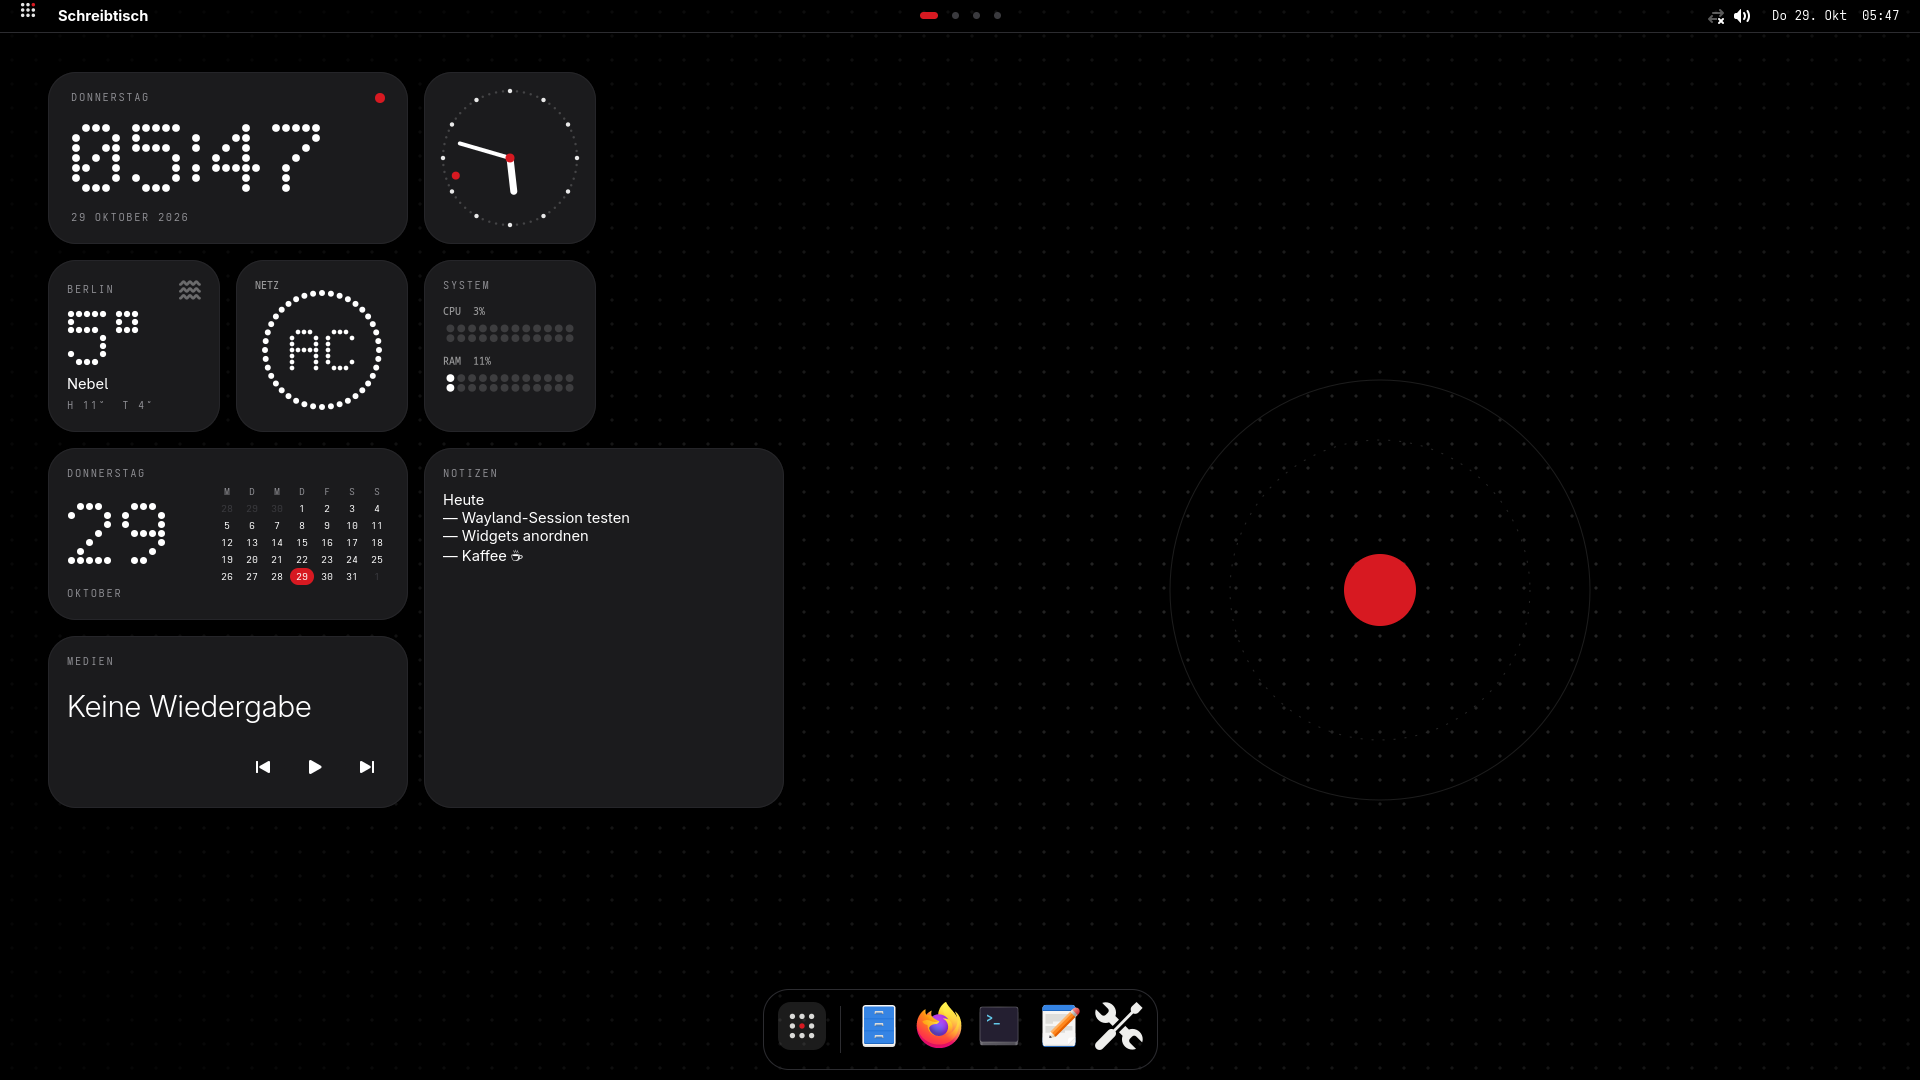
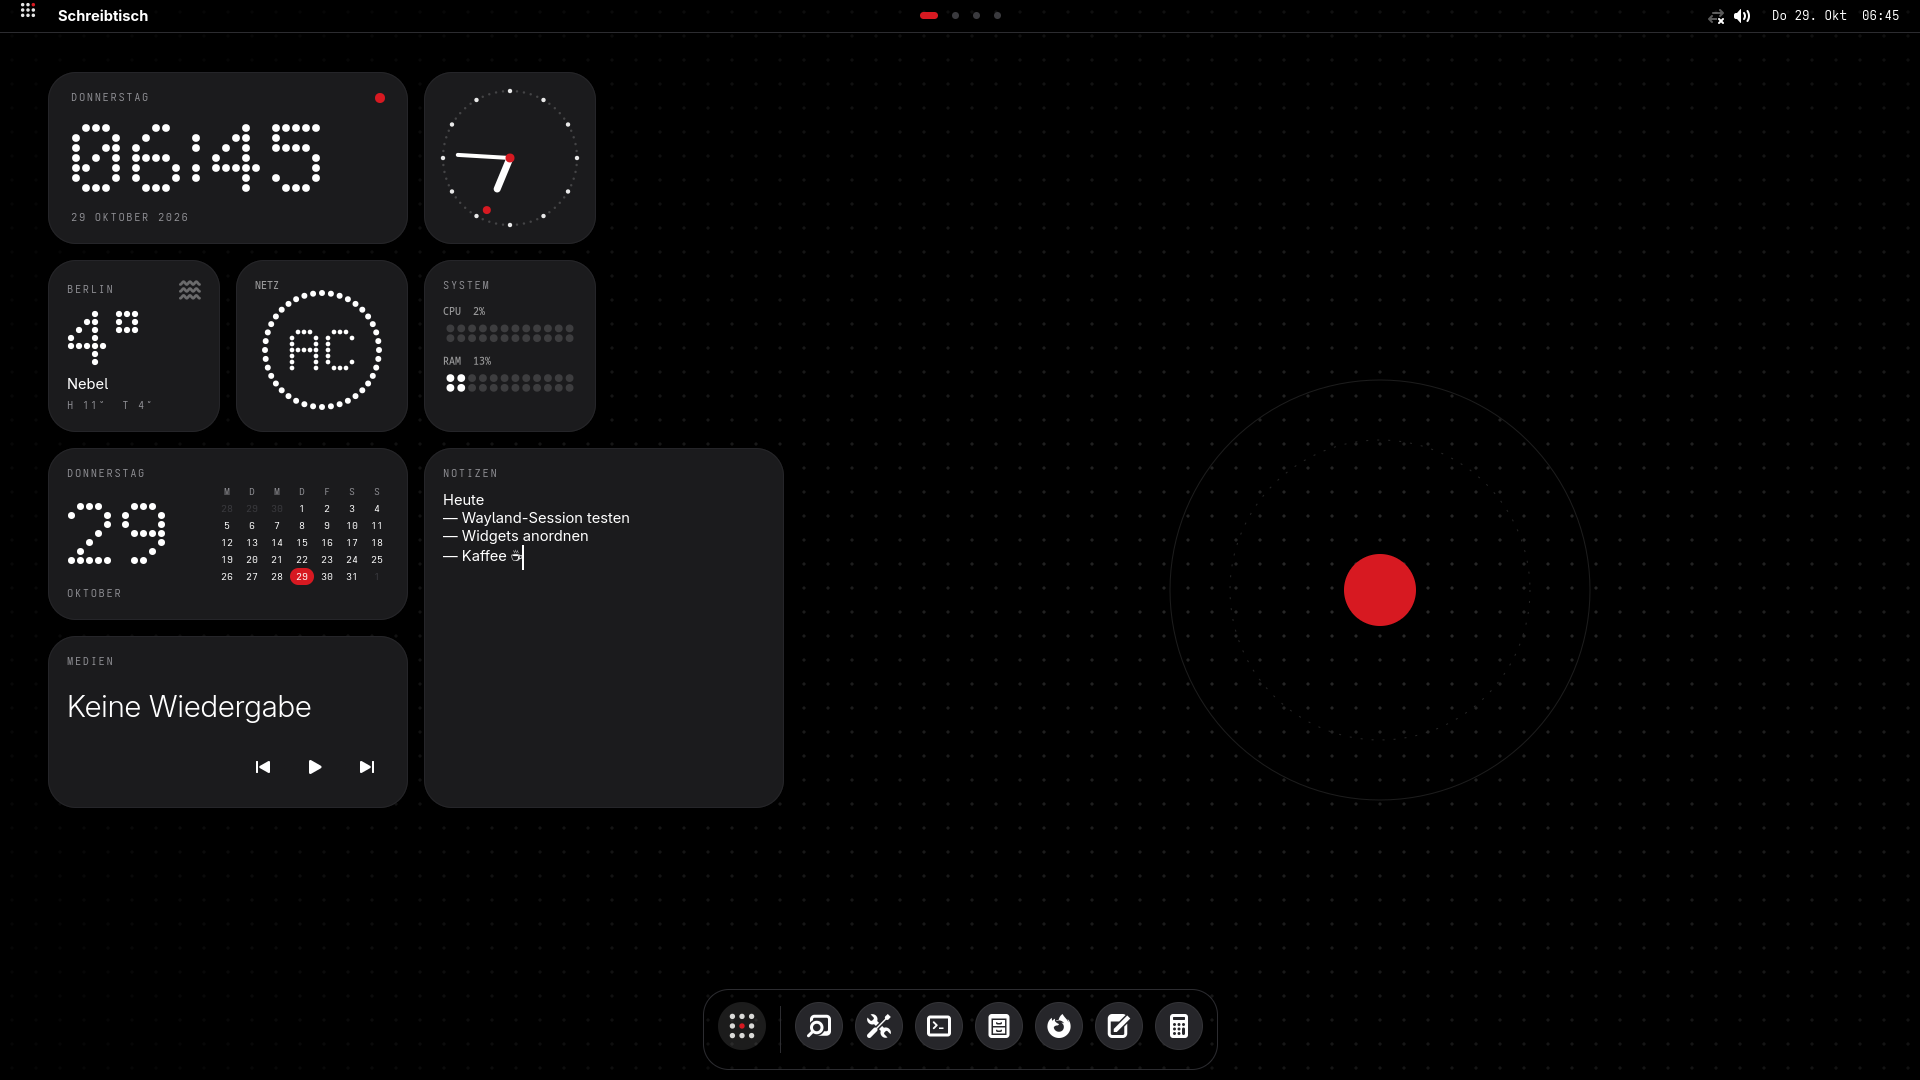
Nothing-Symbole für alle Apps, App-Menü-Knopf wahlweise rechts
Jede App bekommt in Dock und App-Suche automatisch ein einfarbiges Symbol
auf rundem Grund. Das Motiv kommt aus der symbolischen Variante, wird aus
einer einfarbigen Grundfläche herausgelöst oder als Silhouette mit
Schattierung erzeugt. Einstellung „App-Symbole“ schaltet auf die Originale
zurück, „App-Menü-Knopf“ setzt den Knopf der App-Suche nach rechts.

Neue Abhängigkeit: python-numpy.

diff --git a/shell/nothing_de/icons.py b/shell/nothing_de/icons.py
@@ -1,0 +1,185 @@
+"""Nothing-style app icons: a monochrome glyph on a round plate.
+
+Apps rarely ship such icons, so the glyph is derived from the normal icon:
+a symbolic variant is used as is; for a coloured icon on a plate (a squircle
+or circle in one colour, e.g. Discord or Signal) the motif is cut out of the
+plate by its colour difference; any other icon becomes a white silhouette
+whose shading keeps the inner detail. The glyph is painted in the CSS colour
+of the widget, so it follows light/dark mode and needs no recolouring.
+"""
+import cairo
+import numpy as np
+
+from gi.repository import Gdk, GdkPixbuf, Gio, GLib, Gtk
+
+from .apps import app_icon
+
+RENDER = 128            # px the source icon is rasterised at
+_cache = {}             # source path -> (A8 surface, plate?) or None
+
+
+def _source(gicon, symbolic=True):
+    """Path of the best file for gicon, preferring its -symbolic variant."""
+    if isinstance(gicon, Gio.FileIcon):
+        return gicon.get_file().get_path(), False
+    if not isinstance(gicon, Gio.ThemedIcon):
+        return None, False
+    theme = Gtk.IconTheme.get_for_display(Gdk.Display.get_default())
+    names = [n for n in gicon.get_names() if not n.endswith("-symbolic")]
+    candidates = [(n + "-symbolic", True) for n in names] if symbolic else []
+    candidates += [(n, False) for n in names]
+    for name, is_symbolic in candidates:
+        if not theme.has_icon(name):
+            continue
+        found = theme.lookup_icon(name, None, RENDER, 1, Gtk.TextDirection.NONE, 0)
+        f = found.get_file() if found else None
+        if f and f.get_path():
+            return f.get_path(), is_symbolic
+    return None, False
+
+
+def _load(path, symbolic):
+    if not (symbolic and path.endswith(".svg")):
+        return GdkPixbuf.Pixbuf.new_from_file_at_scale(path, RENDER, RENDER, True)
+    # Firefox-style symbolic SVGs paint with context-fill, unknown to librsvg
+    with open(path, encoding="utf-8", errors="replace") as f:
+        svg = f.read()
+    for word, value in (("context-fill-opacity", "1"), ("context-stroke-opacity", "1"),
+                        ("context-fill", "#000"), ("context-stroke", "#000")):
+        svg = svg.replace(word, value)
+    loader = GdkPixbuf.PixbufLoader.new_with_type("svg")
+    loader.set_size(RENDER, RENDER)
+    loader.write(svg.encode())
+    loader.close()
+    return loader.get_pixbuf()
+
+
+def _pixels(path, symbolic):
+    pb = _load(path, symbolic)
+    if not pb.get_has_alpha():
+        pb = pb.add_alpha(False, 0, 0, 0)
+    w, h, stride = pb.get_width(), pb.get_height(), pb.get_rowstride()
+    raw = np.frombuffer(pb.get_pixels(), np.uint8)
+    raw = np.pad(raw, (0, h * stride - raw.size))    # last row may be short
+    return raw.reshape(h, stride)[:, :w * 4].reshape(h, w, 4).astype(np.float32) / 255
+
+
+def _erode(mask, steps):
+    for _ in range(steps):
+        m = mask.copy()
+        m[1:] &= mask[:-1]
+        m[:-1] &= mask[1:]
+        m[:, 1:] &= mask[:, :-1]
+        m[:, :-1] &= mask[:, 1:]
+        mask = m
+    return mask
+
+
+def _plate_colours(rgb, solid):
+    """Candidates for the plate colour: the outline ring, then the most common colour."""
+    ring = solid & ~_erode(solid, RENDER // 24)
+    if ring.any():
+        yield np.median(rgb[ring], axis=0), ring
+    q = np.round(rgb[solid] * 7).astype(np.int32) @ np.array([64, 8, 1])
+    counts = np.bincount(q, minlength=512)
+    if counts.max() >= 0.25 * solid.sum():
+        yield rgb[solid][q == counts.argmax()].mean(axis=0), None
+
+
+def _plate_glyph(rgb, a):
+    """Motif of an icon drawn on a one-coloured plate, or None.
+
+    The plate colour is preferably taken from a ring along the icon's outline,
+    where the motif rarely reaches; a soft gradient stays below the threshold.
+    """
+    solid = a > 0.5
+    if solid.mean() < 0.35:
+        return None
+    for plate, ring in _plate_colours(rgb, solid):
+        dist = np.linalg.norm(rgb - plate, axis=2) / np.sqrt(3)
+        if ring is not None and np.median(dist[ring]) > 0.08:
+            continue
+        if (dist[solid] < 0.2).mean() < 0.3:
+            continue
+        glyph = np.clip((dist - 0.10) / 0.16, 0, 1) * np.clip((a - 0.75) / 0.2, 0, 1)
+        if 0.015 < glyph.sum() / solid.sum() < 0.6:
+            return glyph
+    return None
+
+
+def _glyph(path, symbolic):
+    px = _pixels(path, symbolic)
+    rgb, a = px[..., :3], px[..., 3]
+    glyph = None if symbolic else _plate_glyph(rgb, a)
+    plate = glyph is not None
+    if glyph is None and symbolic:
+        glyph = a
+    if glyph is None:
+        lum = rgb @ np.array([0.2126, 0.7152, 0.0722], np.float32)
+        solid = a > 0.5
+        lo, hi = np.percentile(lum[solid], (5, 95)) if solid.any() else (0, 1)
+        shade = np.clip((lum - lo) / max(hi - lo, 0.05), 0, 1)
+        glyph = a * (0.38 + 0.62 * shade)
+    ys, xs = np.nonzero(glyph > 0.08)
+    if not len(xs):
+        return None
+    glyph = glyph[ys.min():ys.max() + 1, xs.min():xs.max() + 1]
+    h, w = glyph.shape
+    stride = cairo.ImageSurface.format_stride_for_width(cairo.FORMAT_A8, w)
+    buf = np.zeros((h, stride), np.uint8)
+    buf[:, :w] = np.round(glyph * 255)
+    data = bytearray(buf.tobytes())
+    surf = cairo.ImageSurface.create_for_data(data, cairo.FORMAT_A8, w, h, stride)
+    return surf, plate or symbolic
+
+
+def glyph_for(gicon):
+    for prefer_symbolic in (True, False):
+        path, symbolic = _source(gicon, prefer_symbolic)
+        if path is None:
+            return None
+        key = (path, symbolic)
+        if key not in _cache:
+            try:
+                _cache[key] = _glyph(path, symbolic)
+            except (GLib.Error, ValueError, OSError) as e:
+                print("nothing-de: icon", path, e)
+                _cache[key] = None
+        if _cache[key] is not None or not symbolic:
+            return _cache[key]
+    return None
+
+
+class NothingIcon(Gtk.DrawingArea):
+    """Round plate with the app's glyph, drawn in the widget's CSS colour."""
+
+    def __init__(self, app, size):
+        super().__init__(content_width=size, content_height=size,
+                         halign=Gtk.Align.CENTER, valign=Gtk.Align.CENTER)
+        self.add_css_class("n-icon")
+        self.gicon = app_icon(app)
+        self.set_draw_func(self._draw)
+
+    def _draw(self, _area, cr, w, h):
+        g = glyph_for(self.gicon)
+        if g is None:
+            g = glyph_for(Gio.ThemedIcon.new("application-x-executable"))
+        if g is None:
+            return
+        surf, tight = g
+        box = min(w, h) * (0.5 if tight else 0.58)
+        s = box / max(surf.get_width(), surf.get_height())
+        fg = self.get_color()
+        cr.set_source_rgba(fg.red, fg.green, fg.blue, fg.alpha)
+        cr.translate((w - surf.get_width() * s) / 2, (h - surf.get_height() * s) / 2)
+        cr.scale(s, s)
+        pat = cairo.SurfacePattern(surf)
+        pat.set_filter(cairo.FILTER_GOOD)
+        cr.mask(pat)
+
+
+def icon_widget(app, size, cfg):
+    """App icon in the style chosen in the settings."""
+    if cfg.get("icons") == "original":
+        return Gtk.Image(gicon=app_icon(app), pixel_size=size)
+    return NothingIcon(app, size)

diff --git a/shell/nothing_de/dock.py b/shell/nothing_de/dock.py
@@ -4,7 +4,8 @@ import math
 from gi.repository import Gdk, Gio, GLib, GObject, Gtk
 
 from . import layer
-from .apps import app_icon, launch_app
+from .apps import launch_app
+from .icons import icon_widget
 from .theme import hex_to_rgb
 
 
@@ -18,7 +19,7 @@ class DockItem(Gtk.Box):
         self._cycle = 0
         self.btn = Gtk.Button()
         self.btn.add_css_class("n-dock-item")
-        self.img = Gtk.Image(gicon=app_icon(app), pixel_size=size)
+        self.img = icon_widget(app, size, dock.cfg)
         self.btn.set_child(self.img)
         name = app.get_display_name() if app else key
         self.btn.set_tooltip_text(name)
@@ -237,11 +238,13 @@ class Dock(Gtk.ApplicationWindow):
         btn.set_tooltip_text("Apps")
         art = Gtk.DrawingArea(content_width=size, content_height=size)
 
+        round_plate = self.cfg.get("icons") != "original"
+
         def draw(area, cr, w, h):
             fg = area.get_color()
             acc = hex_to_rgb(self.cfg.get("accent"))
             cr.set_source_rgba(fg.red, fg.green, fg.blue, 0.12)
-            r = w * 0.26
+            r = w * (0.5 if round_plate else 0.26)
             cr.new_sub_path()
             cr.arc(w - r, r, r, -math.pi / 2, 0)
             cr.arc(w - r, h - r, r, 0, math.pi / 2)
@@ -291,31 +294,37 @@ class Dock(Gtk.ApplicationWindow):
             groups[key][1].append(w)
 
         size = self._fit_size(wanted, 1 + len(order) + len(running_order))
-        layout_key = (size, tuple(order), tuple(running_order),
-                      self.cfg.get("accent"))
+        launcher_right = self.cfg.get("dock.launcher") == "right"
+        layout_key = (size, tuple(order), tuple(running_order), self.cfg.get("accent"),
+                      self.cfg.get("icons"), launcher_right)
         if layout_key != self._layout_key:
             self._layout_key = layout_key
             while (c := self.box.get_first_child()) is not None:
                 self.box.remove(c)
             self.items = {}
             self._gap_item = None
-            self.box.append(self._launcher_button(size))
-            sep = Gtk.Box()
-            sep.add_css_class("n-dock-sep")
-            self.box.append(sep)
+            if not launcher_right:
+                self.box.append(self._launcher_button(size))
+                self._separator()
             for key in order:
                 self._add(key, groups[key][0], size)
             if running_order:
-                sep2 = Gtk.Box()
-                sep2.add_css_class("n-dock-sep")
-                self.box.append(sep2)
+                self._separator()
             for key in running_order:
                 self._add(key, groups[key][0], size)
+            if launcher_right:
+                self._separator()
+                self.box.append(self._launcher_button(size))
             # layer windows never shrink on their own; drop the old size
             self.set_default_size(1, 1)
         focused = st.get("focused")
         for key, item in self.items.items():
             item.set_windows(groups.get(key, (None, []))[1], focused)
+
+    def _separator(self):
+        sep = Gtk.Box()
+        sep.add_css_class("n-dock-sep")
+        self.box.append(sep)
 
     def _add(self, key, app, size):
         item = DockItem(self, key, app, size)

diff --git a/shell/nothing_de/settings.py b/shell/nothing_de/settings.py
@@ -328,6 +328,20 @@ class DockPage:
         size.set_value(cfg.get("dock.icon_size") or 48)
         size.connect("notify::value", lambda r, _p: cfg.set("dock.icon_size", int(r.get_value())))
         g.add(size)
+        self.choices = []
+        for key, title, subtitle, choices in (
+                ("icons", "App-Symbole", "Im Dock und in der App-Suche",
+                 (("nothing", "Nothing (einfarbig)"), ("original", "Original"))),
+                ("dock.launcher", "App-Menü-Knopf", "Position im Dock",
+                 (("left", "Links"), ("right", "Rechts")))):
+            row = Adw.ComboRow(title=title, subtitle=subtitle,
+                               model=Gtk.StringList.new([label for _v, label in choices]))
+            values = [v for v, _label in choices]
+            row.set_selected(values.index(cfg.get(key)) if cfg.get(key) in values else 0)
+            row.connect("notify::selected", lambda r, _p, key=key, values=values:
+                        cfg.set(key, values[r.get_selected()]))
+            g.add(row)
+            self.choices.append((row, key, values))
         self.widget.add(g)
 
         self.pinned = group("Angeheftete Apps")
@@ -350,6 +364,9 @@ class DockPage:
         self.sync()
 
     def sync(self):
+        for row, key, values in self.choices:
+            if self.cfg.get(key) in values:
+                row.set_selected(values.index(self.cfg.get(key)))
         for r in self.rows:
             self.pinned.remove(r)
         self.rows = []

diff --git a/shell/nothing_de/launcher.py b/shell/nothing_de/launcher.py
@@ -5,7 +5,8 @@ import operator
 from gi.repository import Gdk, Gio, GLib, Gtk, Pango
 
 from . import layer
-from .apps import app_icon, launch_app
+from .apps import launch_app
+from .icons import icon_widget
 
 _OPS = {ast.Add: operator.add, ast.Sub: operator.sub, ast.Mult: operator.mul,
         ast.Div: operator.truediv, ast.Pow: operator.pow, ast.Mod: operator.mod,
@@ -98,7 +99,7 @@ class Launcher(layer.Overlay):
         for app in self.shell.apps.search(q)[:120]:
             tile = Gtk.Box(orientation=Gtk.Orientation.VERTICAL, spacing=8)
             tile.add_css_class("n-app-tile")
-            img = Gtk.Image(gicon=app_icon(app), pixel_size=52)
+            img = icon_widget(app, 52, self.shell.cfg)
             tile.append(img)
             lbl = Gtk.Label(label=app.get_display_name(), ellipsize=Pango.EllipsizeMode.END,
                             max_width_chars=12, justify=Gtk.Justification.CENTER)

diff --git a/shell/nothing_de/theme.py b/shell/nothing_de/theme.py
@@ -98,6 +98,8 @@ button.n-ws {{ padding: 4px 4px; min-height: 0; min-width: 0; }}
 .n-dock .n-run-dot.focused {{ background: @n_accent; min-width: 12px; }}
 .n-dock-slot.drop-before {{ box-shadow: -5px 0 0 -2px @n_accent; }}
 .n-dock-slot.drop-after {{ box-shadow: 5px 0 0 -2px @n_accent; }}
+.n-icon {{ background: @n_card_hi; color: @n_fg; border-radius: 999px;
+  box-shadow: inset 0 0 0 1px alpha(@n_fg, 0.06); }}
 .n-dock-sep {{ min-width: 1px; background: @n_border; margin: 8px 6px; }}
 
 /* ---------- cards / widgets ---------- */

diff --git a/shell/nothing_de/config.py b/shell/nothing_de/config.py
@@ -56,8 +56,10 @@ DEFAULTS = {
     "keyboard": {"layout": "de", "variant": "", "options": ""},
     "bar": {"clock_24h": True, "show_seconds": False, "show_date": True,
             "show_workspaces": True},
+    "icons": "nothing",              # nothing (monochrome) | original
     "dock": {
         "icon_size": 48,
+        "launcher": "left",          # left | right: position of the apps button
         "pinned": [
             "org.gnome.Nautilus.desktop",
             "firefox.desktop",

diff --git a/docs/ENTWICKLUNG.md b/docs/ENTWICKLUNG.md
@@ -21,7 +21,7 @@ ninja -C build/compositor
 ```
 
 Benötigt `wlroots0.20`, `wayland-protocols`, `xkbcommon` und `xcb`. Die Python-Teile brauchen keinen
-Build-Schritt. Aus dem Repo heraus starten sie direkt:
+Build-Schritt, aber `python-gobject`, `python-cairo` und `python-numpy` (für die Nothing-Symbole). Aus dem Repo heraus starten sie direkt:
 
 ```sh
 bin/nothing-shell        # findet ../shell automatisch
@@ -91,6 +91,7 @@ Die Screenshots in `docs/screenshots/` sind so entstanden (1920×1080, deutsches
 - [ ] Esc schließt App-Suche und Kontrollzentrum
 - [ ] Dock-Symbol ziehen: Eine rote Linie zeigt die Stelle; nach vorn, hinten und in die Mitte klappt es
 - [ ] App aus der Suche ins Dock ziehen bzw. per Rechtsklick „Im Dock behalten“
+- [ ] Einstellungen → Dock & Leiste: „App-Symbole“ und „App-Menü-Knopf“ wirken sofort
 - [ ] Super + L sperrt; ein falsches Passwort wird abgelehnt, das richtige entsperrt
 - [ ] Kontrastfarbe und Hell/Dunkel in den Einstellungen wirken sofort
 - [ ] Shell beenden (`pkill -f '[n]othing_de.shell'`): Sie kommt genau einmal zurück
@@ -109,6 +110,9 @@ Die Screenshots in `docs/screenshots/` sind so entstanden (1920×1080, deutsches
 - **Keine Layout-Änderung beim Drag-Feedback:** Eine Lücke im Dock würde es verbreitern und neu
   zentrieren, dann verrutscht die Mausposition relativ zum Dock. Deshalb gibt es eine Markierung per
   `box-shadow`.
+- **Nothing-Symbole:** `icons.py` rechnet jedes Symbol einmal pro Sitzung um, erst beim ersten Zeichnen.
+  Neue Sonderfälle lassen sich am schnellsten mit einem Kontaktbogen prüfen: `glyph_for()` für eine Liste
+  von Apps aufrufen und die Masken mit cairo nebeneinander in ein PNG zeichnen.
 - **Fenster ↔ App:** Das Dock ordnet Fenster über `app_id` (Wayland) bzw. die X11-Klasse den `.desktop`-Dateien
   zu, unter anderem über `StartupWMClass`. Eigene Apps sollten das setzen.
 - **Prozesse in Tests beenden:** `pkill -f "python3 -m nothing_de.shell"` trifft auch die eigene

diff --git a/README.md b/README.md
@@ -34,12 +34,16 @@ Weitere Bilder: [Sperrbildschirm](docs/screenshots/lock.png) · [Rechtsklick-Men
   Kalender, Notizen, Medien (MPRIS) und Foto. Sie lassen sich frei verschieben.
 - **Leiste:** Systemmenü, Name der aktiven App mit Fenstermenü, Punkte für die Arbeitsflächen, Netzwerk,
   Lautstärke, Akku, Uhr mit Kalender.
+- **App-Symbole im Nothing-Stil:** Jede App bekommt automatisch ein einfarbiges Symbol auf einem runden,
+  dunklen Grund, auch Apps ohne passendes Symbol. Das Motiv wird aus dem normalen Symbol herausgerechnet.
+  Auf Wunsch lassen sich die Originalsymbole einschalten.
 - **Dock:** angeheftete und laufende Apps, nach App gruppiert, mit Punkt für laufende Apps und Kontrastfarbe für
   die aktive. Anheften und Sortieren geht direkt, ohne Einstellungen:
   - Symbole im Dock **per Ziehen umsortieren**; eine Linie in Kontrastfarbe zeigt die Ablagestelle
   - Apps aus der **App-Suche ins Dock ziehen** oder dort per **Rechtsklick → „Im Dock behalten“** anheften
   - laufende Apps per Rechtsklick anheften; „Nach links/rechts verschieben“ und „Aus dem Dock entfernen“
   - bei vielen Apps werden die Symbole automatisch kleiner, damit alles auf den Bildschirm passt
+  - der Knopf für die App-Suche sitzt wahlweise links oder rechts (Einstellungen → Dock & Leiste)
 - **Kontrollzentrum:** WLAN, Bluetooth, Dunkelmodus, *Nicht stören*, Lautstärke, Helligkeit, Kontrastfarbe, Ein/Aus.
 - **Einstellungs-App:** Darstellung, Widgets, Dock und Leiste, Arbeitsflächen, Standard-Apps, Tastatur,
   Benutzer (AccountsService) und Online-Konten (GNOME Online Accounts).

diff --git a/docs/KONFIGURATION.md b/docs/KONFIGURATION.md
@@ -21,6 +21,8 @@ Fehlende Schlüssel ergänzt sie mit den Standardwerten (`shell/nothing_de/confi
 | `bar.show_seconds` | bool | `false` | Sekunden in der Leiste |
 | `bar.show_date` | bool | `true` | Datum in der Leiste |
 | `bar.show_workspaces` | bool | `true` | Punkte für die Arbeitsflächen |
+| `icons` | `"nothing"` \| `"original"` | `"nothing"` | App-Symbole in Dock und App-Suche: einfarbig auf rundem Grund oder Original |
+| `dock.launcher` | `"left"` \| `"right"` | `"left"` | Position des Knopfs für die App-Suche im Dock |
 | `dock.icon_size` | px | `48` | Symbolgröße im Dock (Höchstwert; bei vielen Apps automatisch kleiner, mindestens 24) |
 | `dock.pinned` | Liste von `.desktop`-IDs | Dateien, Firefox, Konsole, Texteditor, Einstellungen | Angeheftete Apps in Dock-Reihenfolge (wird auch durch Ziehen im Dock geändert) |
 | `weather.city` / `.lat` / `.lon` | Text / Zahl | Berlin | Ort des Wetter-Widgets |

diff --git a/docs/ARCHITEKTUR.md b/docs/ARCHITEKTUR.md
@@ -93,6 +93,7 @@ export-dmabuf, gamma-control, idle-notify und idle-inhibit, xdg-output, Relative
 | `notifications.py` | Benachrichtigungsdienst |
 | `lockscreen.py` | Sperrbildschirm über `Gtk4SessionLock`; das Passwort prüft `unix_chkpwd` |
 | `system.py` | Lautstärke (wpctl/pactl), Helligkeit (logind), Netzwerk (NM), Bluetooth, Energie (logind) |
+| `icons.py` | Nothing-Symbole: leitet aus dem App-Symbol ein einfarbiges Motiv ab (symbolische Variante, Motiv auf einfarbiger Fläche oder Silhouette) und zeichnet es auf einen runden Grund |
 | `apps.py` | Index der `.desktop`-Dateien: ordnet App-IDs und X11-Klassen den Apps zu |
 | `settings.py` | Die Einstellungs-App (eigener Prozess) |
 
